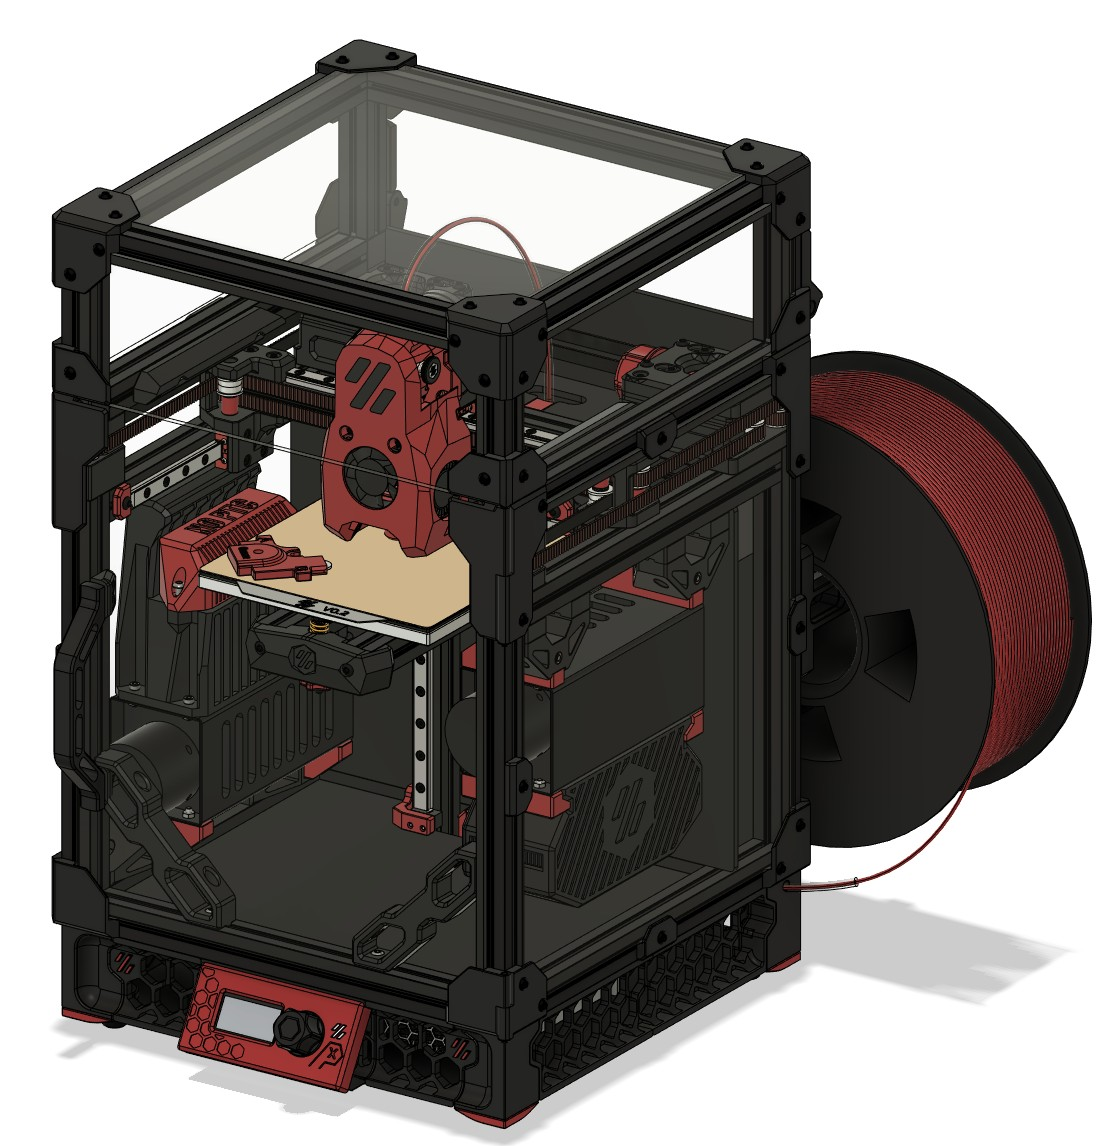
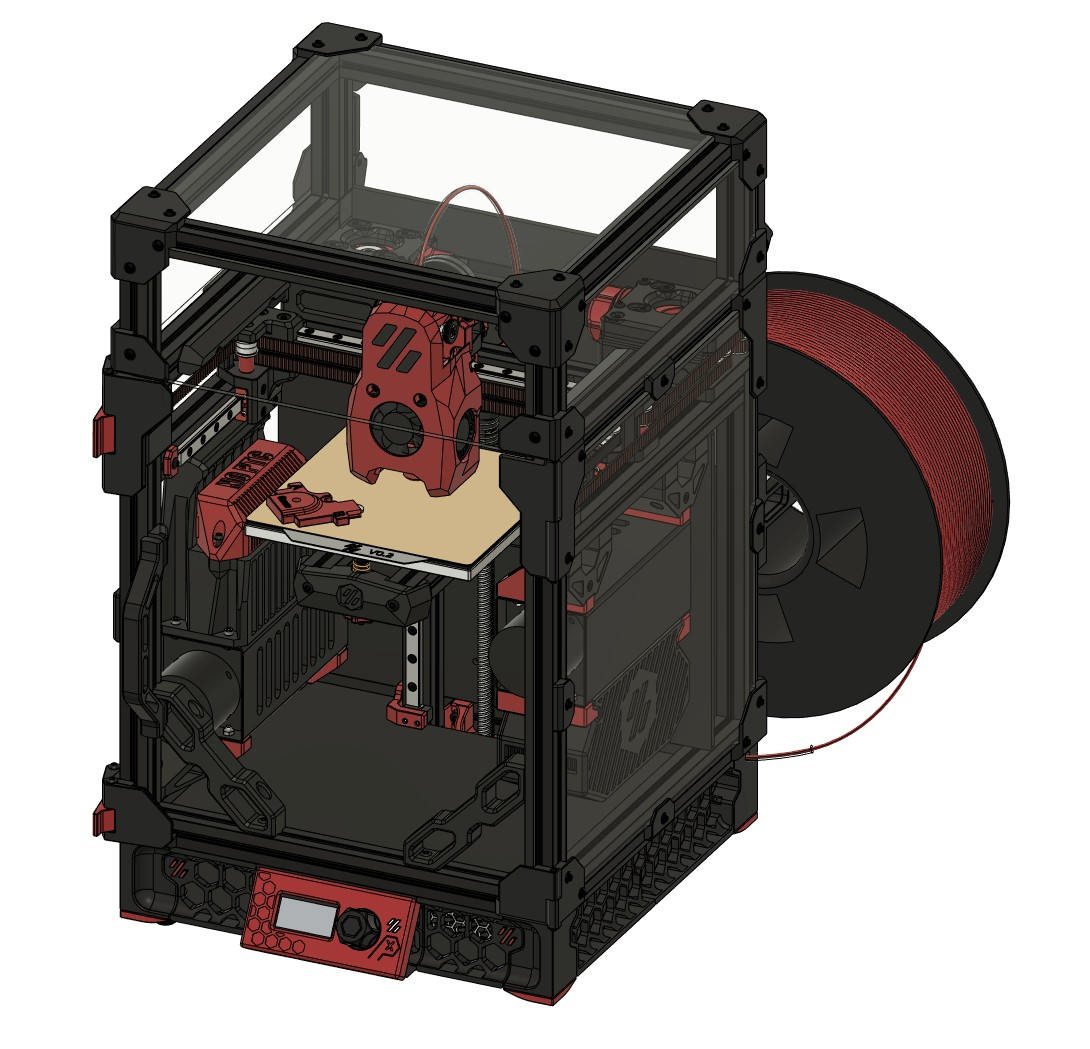
增加了门卡扣

diff --git a/README.md b/README.md
@@ -27,3 +27,7 @@ https://a360.co/43akzyH
 
 ![安装磁铁](/img/IMG_20230513_213003.jpg "安装磁铁")
 
+## 安装门卡扣
+
+![安装门卡扣](/img/IMG_20230617_182954.jpg "安装门卡扣")
+
